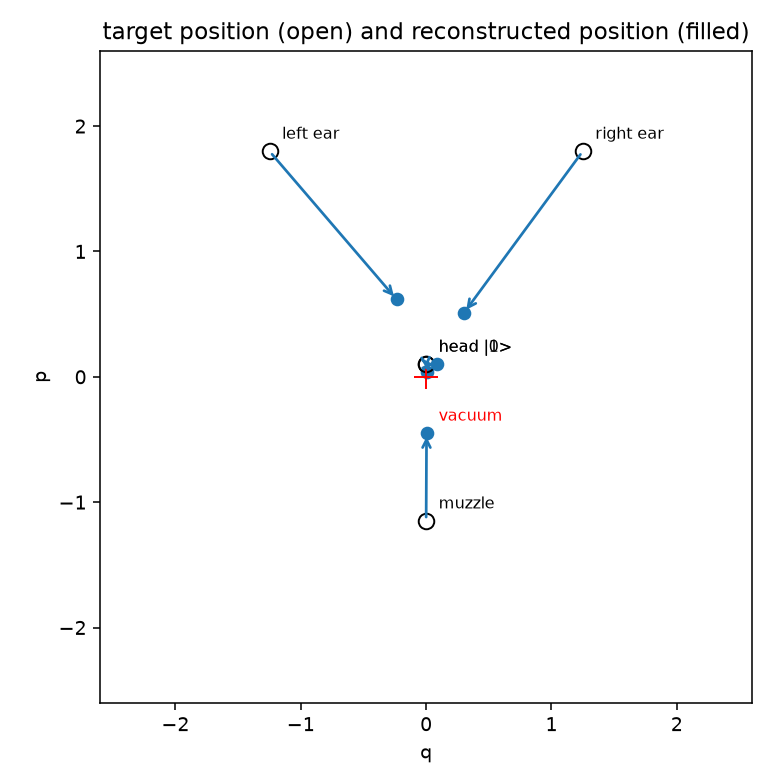
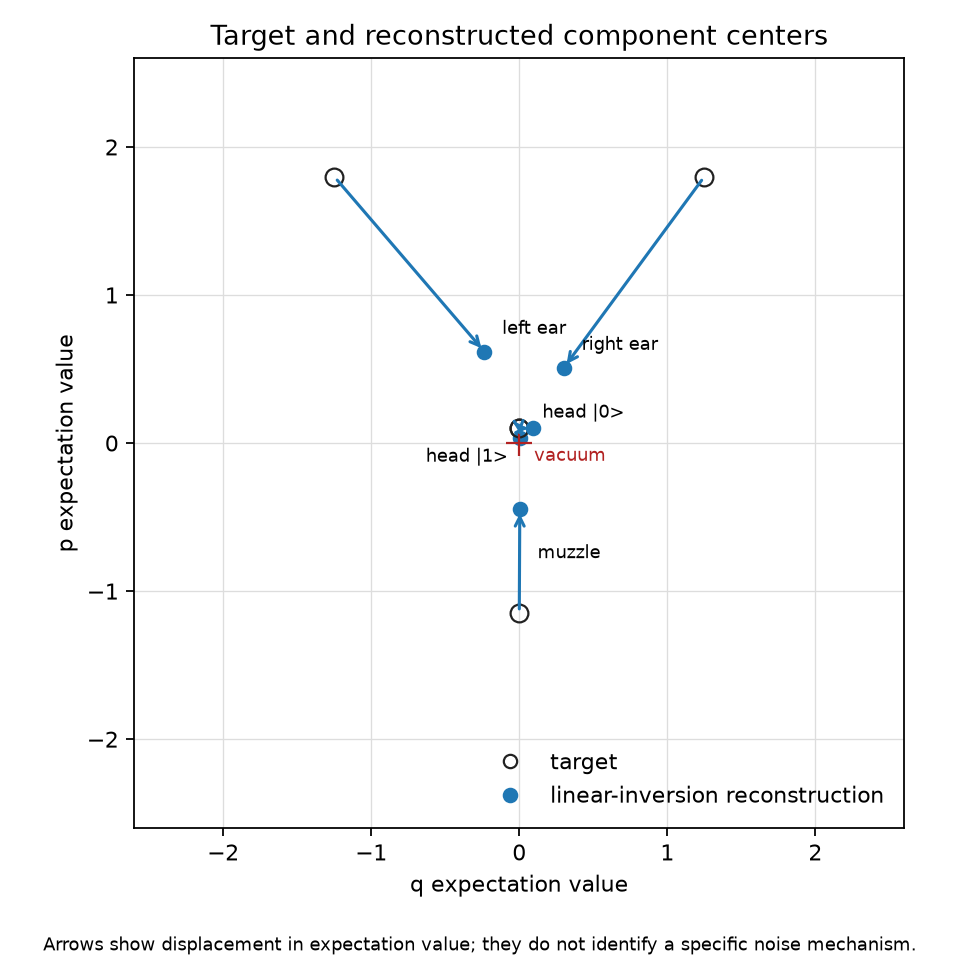
restore evidence-grounded run charts

diff --git a/run/plots.py b/run/plots.py
@@ -1,118 +1,207 @@
 import json
-import math
 import pathlib
-import re
 import sys
 
-import numpy as np
 import matplotlib
 matplotlib.use("Agg")
 import matplotlib.pyplot as plt
+from matplotlib.lines import Line2D
+import numpy as np
 
 here = pathlib.Path(__file__).parent
 sys.path.insert(0, str(here.parent / "ibm"))
+sys.path.insert(0, str(here))
 import render
+import refit
 
-PAULI = {"I": np.eye(2), "X": np.array([[0, 1], [1, 0]]),
-         "Y": np.array([[0, -1j], [1j, 0]]), "Z": np.array([[1, 0], [0, -1]])}
 
 jobs = json.loads((here / "jobs.json").read_text())
-states = {j: json.loads((here / "states" / f"{j}.json").read_text()) for j in jobs}
-
-nq, lim, comps = render.scene("HUSKY4")
-targets = {
-    "single-component test (muzzle)": comps[4],
-    "component 1: head |0>": comps[0],
-    "component 2: head |1>": comps[1],
-    "component 3: left ear": comps[2],
-    "component 4: right ear": comps[3],
-    "component 5: muzzle": comps[4],
+states = {
+    job_id: json.loads((here / "states" / f"{job_id}.json").read_text())
+    for job_id in jobs
 }
 
-def calibration_prediction():
-    cal = json.loads((here / "calibration_ibm_kingston.json").read_text())
-    gate_error = {}
-    for g in cal["gates"]:
-        err = next((p["value"] for p in g["parameters"]
-                    if p["name"] == "gate_error"), None)
-        if err is not None:
-            gate_error[(g["gate"], tuple(g["qubits"]))] = err
-    readout_error = {
-        q: next(p["value"] for p in values if p["name"] == "readout_error")
-        for q, values in enumerate(cal["qubits"])
+_, _, components = render.scene("HUSKY4")
+targets = {
+    "single-component test (muzzle)": components[4],
+    "component 1: head |0>": components[0],
+    "component 2: head |1>": components[1],
+    "component 3: left ear": components[2],
+    "component 4: right ear": components[3],
+    "component 5: muzzle": components[4],
+}
+
+
+def pauli_matrix(key):
+    matrix = np.array([[1.0]])
+    for q in reversed(range(len(key))):
+        matrix = np.kron(matrix, refit.PAULI[key[q]])
+    return matrix
+
+
+def fidelity_with_shot_error(records, psi, n=4):
+    """Linear-inversion fidelity and propagated multinomial shot error."""
+    key_counts = {}
+    record_terms = []
+    for record in records:
+        basis = [refit.BASIS[index] for index in record["m_idx"]]
+        terms = []
+        for mask in range(1, 2**n):
+            key = tuple(
+                basis[q] if (mask >> q) & 1 else "I" for q in range(n)
+            )
+            key_counts[key] = key_counts.get(key, 0) + 1
+            terms.append((mask, key))
+        record_terms.append(terms)
+
+    d = 2**n
+    coefficients = {
+        key: float(np.real(psi.conj() @ pauli_matrix(key) @ psi))
+        / (d * count)
+        for key, count in key_counts.items()
     }
 
-    one_qubit = re.compile(r"^(sx|x) \$(\d+);$")
-    two_qubit = re.compile(r"^cz \$(\d+), \$(\d+);$")
-    measurement = re.compile(r"^c_tomo\[\d+\] = measure \$(\d+);$")
-    preds = []
-    for job_id in jobs:
-        log_success = 0.0
-        qasm = (here / "circuits" / f"{job_id}_pub0.qasm").read_text()
-        for line in qasm.splitlines():
-            if match := one_qubit.match(line):
-                key = (match.group(1), (int(match.group(2)),))
-                log_success += math.log1p(-gate_error[key])
-            elif match := two_qubit.match(line):
-                key = ("cz", (int(match.group(1)), int(match.group(2))))
-                log_success += math.log1p(-gate_error[key])
-            elif match := measurement.match(line):
-                log_success += math.log1p(-readout_error[int(match.group(1))])
-        preds.append(math.exp(log_success))
-    return float(np.mean(preds))
+    fidelity = 1 / d
+    variance = 0.0
+    for record, terms in zip(records, record_terms):
+        counts = record["counts"]
+        shots = sum(counts.values())
+        values = []
+        weights = []
+        for bits, count in counts.items():
+            value = 0.0
+            for mask, key in terms:
+                parity = sum(
+                    int(bits[len(bits) - 1 - q])
+                    for q in range(n)
+                    if (mask >> q) & 1
+                )
+                value += coefficients[key] * (-1) ** (parity % 2)
+            values.append(value)
+            weights.append(count)
+        values = np.asarray(values)
+        weights = np.asarray(weights)
+        mean = float(np.dot(values, weights) / shots)
+        fidelity += mean
+        if shots > 1:
+            variance += float(
+                np.dot(weights, (values - mean) ** 2) / (shots * (shots - 1))
+            )
+    return fidelity, np.sqrt(variance)
 
-labels = ["test\n(no DD)", "head |0>", "head |1>", "ear L", "ear R", "muzzle"]
-fids = [states[j]["fidelity_vs_ideal"] for j in jobs]
 
-fig, ax = plt.subplots(figsize=(7, 4.2))
-colors = ["#888888"] + ["#1f77b4"] * 5
-ax.bar(labels, fids, color=colors)
-pred = calibration_prediction()
-print(f"calibration-based prediction: {pred:.3f}")
-ax.axhline(pred, ls="--", c="green", lw=1)
-ax.text(5.45, pred + 0.01,
-        f"predicted from archived calibration ({pred:.2f}):\n"
-        "representative circuit gate errors, no idle-time model",
-        ha="right", va="bottom", fontsize=8, color="green")
-ax.axhline(1 / 16, ls="--", c="red", lw=1)
-ax.text(5.45, 0.075, "fully mixed state", ha="right", va="bottom",
-        fontsize=8, color="red")
-ax.set_ylabel("fidelity to target state")
-ax.set_ylim(0, 1)
-ax.set_title("ibm_kingston: measured fidelity vs calibration-sheet prediction")
-fig.tight_layout()
-fig.savefig(here / "fidelity.png", dpi=140)
+labels = ["test\n(no DD)", "head |0>", "head |1>", "left ear", "right ear", "muzzle"]
+fidelities = []
+errors = []
+for job_id, metadata in jobs.items():
+    fock, unitary, _ = targets[metadata["label"]]
+    psi = unitary[:, fock]
+    records = json.loads((here / "counts" / f"{job_id}.json").read_text())
+    fidelity, standard_error = fidelity_with_shot_error(records, psi)
+    fidelities.append(fidelity)
+    errors.append(1.96 * standard_error)
+
+figure, axis = plt.subplots(figsize=(8, 4.8))
+colors = ["#777777"] + ["#1f77b4"] * 5
+bars = axis.bar(
+    labels,
+    fidelities,
+    yerr=errors,
+    capsize=3,
+    color=colors,
+    edgecolor="none",
+)
+axis.axhline(1 / 16, color="#b22222", linestyle="--", linewidth=1)
+axis.text(5.45, 1 / 16 + 0.006, "fully mixed state (1/16)", ha="right", color="#b22222")
+axis.set_ylabel("fidelity to the prepared target state")
+axis.set_ylim(0, 0.38)
+axis.set_title("Fidelity reconstructed from the archived tomography counts")
+for bar, value in zip(bars, fidelities):
+    axis.text(
+        bar.get_x() + bar.get_width() / 2,
+        value + 0.014,
+        f"{value:.3f}",
+        ha="center",
+        va="bottom",
+        fontsize=8,
+    )
+figure.text(
+    0.5,
+    0.01,
+    "Linear inversion; error bars are 95% shot-noise intervals. Systematic hardware errors are not included.",
+    ha="center",
+    fontsize=8,
+)
+figure.tight_layout(rect=(0, 0.04, 1, 1))
+figure.savefig(here / "fidelity.png", dpi=160)
+
 
 d = 16
-a = np.diag(np.sqrt(np.arange(1, d)), 1)
-qop = (a.conj().T + a) / np.sqrt(2)
-pop = 1j * (a.conj().T - a) / np.sqrt(2)
+annihilation = np.diag(np.sqrt(np.arange(1, d)), 1)
+q_operator = (annihilation.conj().T + annihilation) / np.sqrt(2)
+p_operator = 1j * (annihilation.conj().T - annihilation) / np.sqrt(2)
 
-fig, ax = plt.subplots(figsize=(5.6, 5.6))
-for j, meta in jobs.items():
-    if "test" in meta["label"]:
+figure, axis = plt.subplots(figsize=(6, 6))
+label_offsets = {
+    "head |0>": (10, 9),
+    "head |1>": (-48, -15),
+    "left ear": (8, 8),
+    "right ear": (8, 8),
+    "muzzle": (8, -22),
+}
+for job_id, metadata in jobs.items():
+    if "test" in metadata["label"]:
         continue
-    st = states[j]
-    rho = np.array(st["rho_real"]) + 1j * np.array(st["rho_imag"])
-    fock, U, w0 = targets[meta["label"]]
-    psi = U[:, fock]
-    qd = float(np.real(psi.conj() @ qop @ psi))
-    pd_ = float(np.real(psi.conj() @ pop @ psi))
-    qm = float(np.real(np.trace(rho @ qop)))
-    pm = float(np.real(np.trace(rho @ pop)))
-    ax.annotate("", xy=(qm, pm), xytext=(qd, pd_),
-                arrowprops=dict(arrowstyle="->", color="#1f77b4", lw=1.4))
-    ax.plot(qd, pd_, "o", mfc="none", mec="black", ms=8)
-    ax.plot(qm, pm, "o", color="#1f77b4", ms=6)
-    ax.text(qd + 0.1, pd_ + 0.1, meta["label"].split(": ")[1], fontsize=8)
-ax.plot(0, 0, "r+", ms=12)
-ax.text(0.1, -0.35, "vacuum", fontsize=8, color="red")
-ax.set_xlim(-2.6, 2.6)
-ax.set_ylim(-2.6, 2.6)
-ax.set_xlabel("q")
-ax.set_ylabel("p")
-ax.set_aspect("equal")
-ax.set_title("target position (open) and reconstructed position (filled)")
-fig.tight_layout()
-fig.savefig(here / "displacement_decay.png", dpi=140)
+    state = states[job_id]
+    rho = np.array(state["rho_real"]) + 1j * np.array(state["rho_imag"])
+    fock, unitary, _ = targets[metadata["label"]]
+    psi = unitary[:, fock]
+    target_q = float(np.real(psi.conj() @ q_operator @ psi))
+    target_p = float(np.real(psi.conj() @ p_operator @ psi))
+    measured_q = float(np.real(np.trace(rho @ q_operator)))
+    measured_p = float(np.real(np.trace(rho @ p_operator)))
+    axis.annotate(
+        "",
+        xy=(measured_q, measured_p),
+        xytext=(target_q, target_p),
+        arrowprops={"arrowstyle": "->", "color": "#1f77b4", "lw": 1.4},
+    )
+    axis.plot(target_q, target_p, "o", mfc="none", mec="#222222", ms=8)
+    axis.plot(measured_q, measured_p, "o", color="#1f77b4", ms=6)
+    label = metadata["label"].split(": ")[1]
+    axis.annotate(
+        label,
+        xy=(measured_q, measured_p),
+        xytext=label_offsets[label],
+        textcoords="offset points",
+        fontsize=8,
+    )
+
+axis.plot(0, 0, "+", color="#b22222", ms=12)
+axis.text(0.1, -0.12, "vacuum", fontsize=8, color="#b22222")
+axis.set_xlim(-2.6, 2.6)
+axis.set_ylim(-2.6, 2.6)
+axis.set_xlabel("q expectation value")
+axis.set_ylabel("p expectation value")
+axis.set_aspect("equal")
+axis.grid(color="#dddddd", linewidth=0.6)
+axis.set_title("Target and reconstructed component centers")
+axis.legend(
+    handles=[
+        Line2D([0], [0], marker="o", color="none", markeredgecolor="#222222", markerfacecolor="none", label="target"),
+        Line2D([0], [0], marker="o", color="none", markeredgecolor="#1f77b4", markerfacecolor="#1f77b4", label="linear-inversion reconstruction"),
+    ],
+    loc="lower right",
+    frameon=False,
+)
+figure.text(
+    0.5,
+    0.01,
+    "Arrows show displacement in expectation value; they do not identify a specific noise mechanism.",
+    ha="center",
+    fontsize=8,
+)
+figure.tight_layout(rect=(0, 0.04, 1, 1))
+figure.savefig(here / "displacement_decay.png", dpi=160)
+
 print("wrote fidelity.png and displacement_decay.png")

diff --git a/run/README.md b/run/README.md
@@ -50,3 +50,21 @@ duration, idle-time decoherence, crosstalk and drift.
 The no-DD test and DD render muzzle differ by about 0.05 fidelity. They were not
 run as a randomized controlled comparison, so that difference should not be
 generalized into a dynamical-decoupling benchmark.
+
+## Reconstructed fidelity
+
+<p align="center"><img src="fidelity.png" width="82%" alt="Fidelity reconstructed from the archived tomography counts"></p>
+
+The bars are computed directly from the committed counts with linear inversion.
+The error bars propagate multinomial shot noise through that same calculation
+and show approximate 95% intervals. They do not include calibration drift,
+crosstalk, state-preparation error or other systematic effects.
+
+## Component centers in phase space
+
+<p align="center"><img src="displacement_decay.png" width="68%" alt="Target and reconstructed component centers in phase space"></p>
+
+Open markers are the target expectation values and filled markers are the values
+from the reconstructed density matrices. The arrows describe the measured shift;
+they do not by themselves establish amplitude damping or any other single noise
+mechanism.